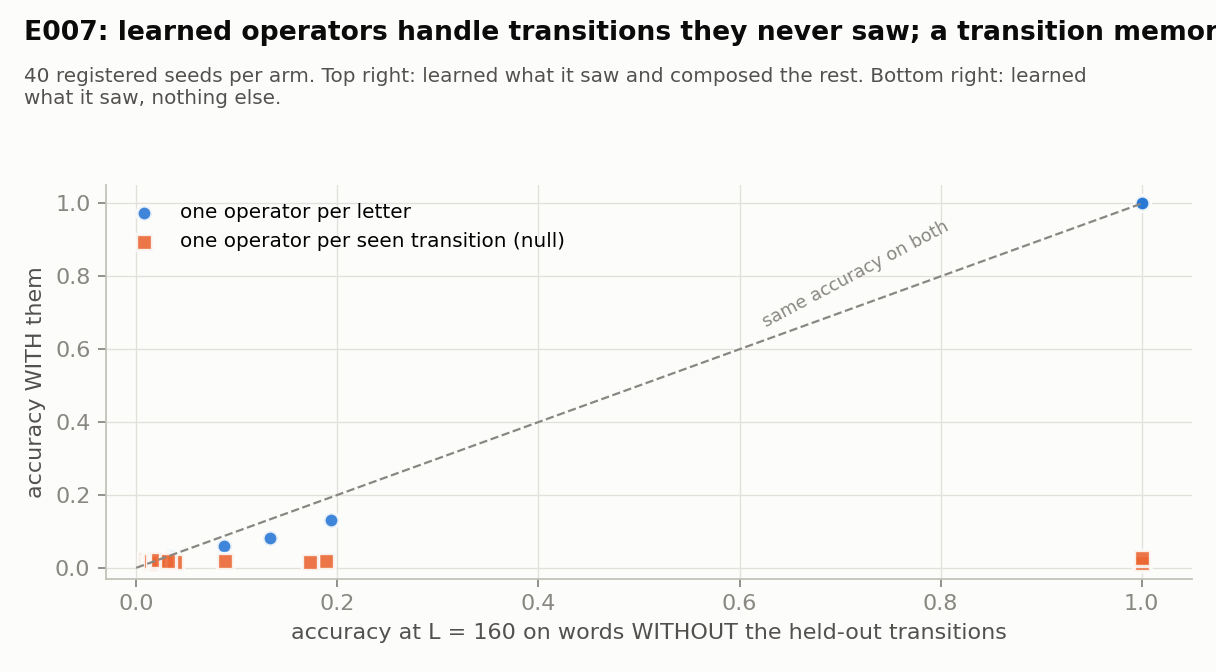
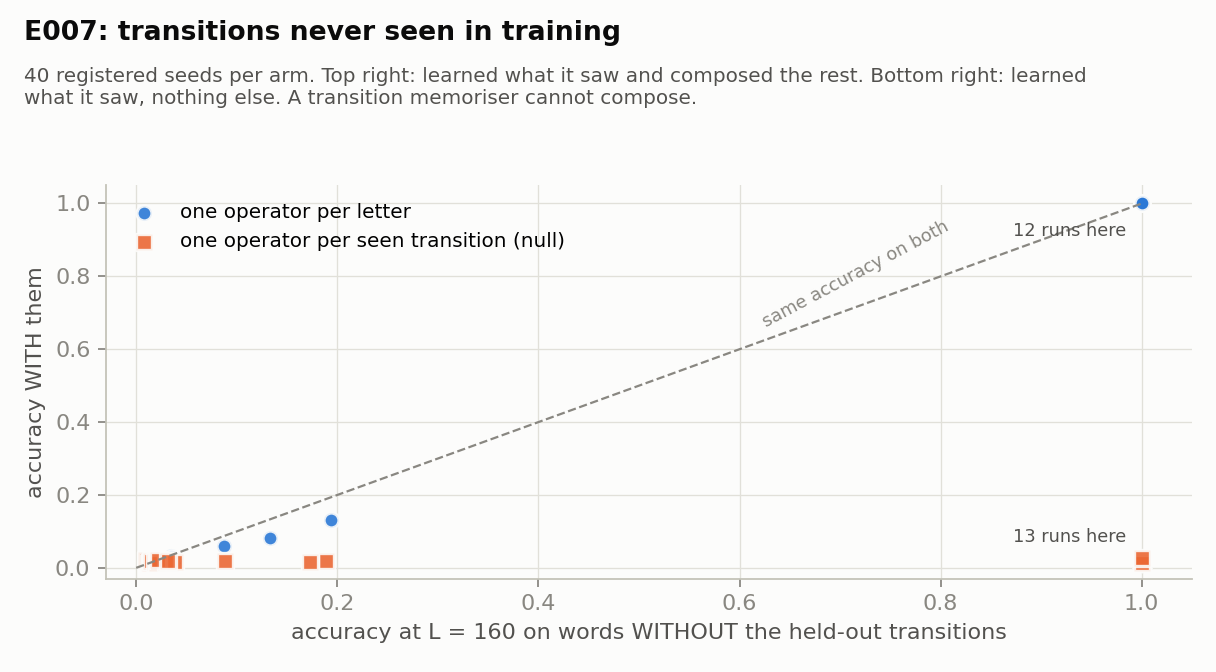
E007 figure: shorter title, run counts at the stacked points

diff --git a/scripts/make_figures.py b/scripts/make_figures.py
@@ -174,9 +174,12 @@ def e007():
     ax.set_xlabel("accuracy at L = 160 on words WITHOUT the held-out transitions")
     ax.set_ylabel("accuracy WITH them")
     ax.legend(frameon=False, loc="upper left", fontsize=9)
-    title(ax, "E007: learned operators handle transitions they never saw; a transition memoriser cannot",
+    title(ax, "E007: transitions never seen in training",
           "40 registered seeds per arm. Top right: learned what it saw and composed the rest. "
-          "Bottom right: learned what it saw, nothing else.")
+          "Bottom right: learned what it saw, nothing else. A transition memoriser cannot compose.")
+    for arm, y, dy in (("HELDOUT", 1.0, -0.09), ("PAIR", 0.0, 0.07)):
+        n = sum(1 for r in runs if r["arm"] == arm and r["clean160"] >= 0.99)
+        ax.text(0.985, y + dy, f"{n} runs here", ha="right", color=INK2, fontsize=8)
     save(fig, "E007_heldout_composition.png")
 
 
